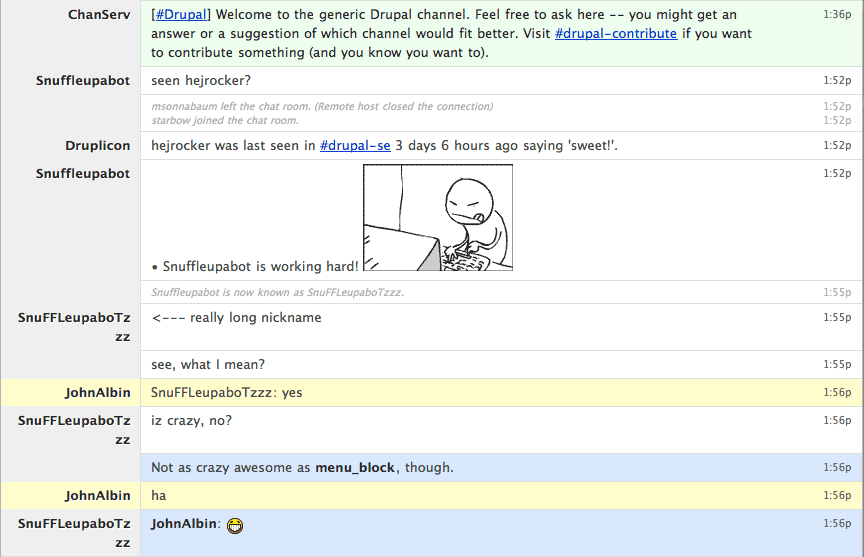
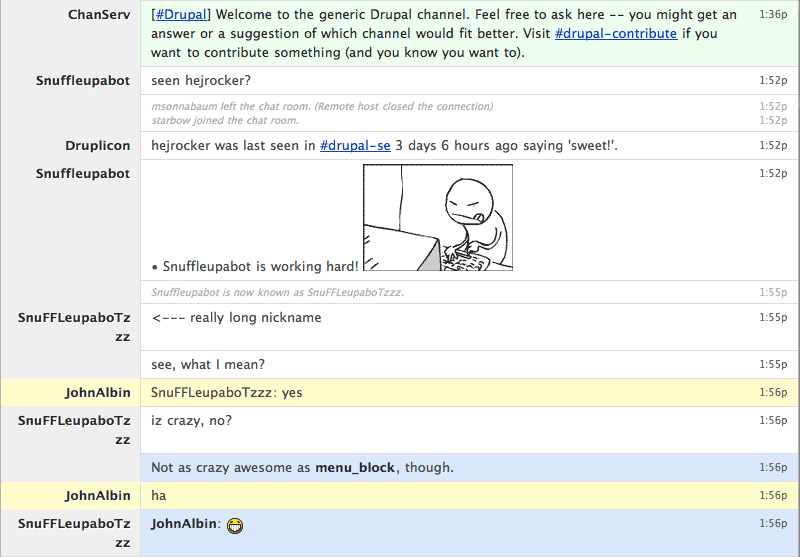
Lessen clutter in screenshot and set size to 800px wide.

diff --git a/README.md b/README.md
@@ -9,7 +9,7 @@ Four reasons to love “Succinct” for Colloquy
 3. De-emphasizes what you don’t.
 4. Customize what you hate.
 
-<img src="https://github.com/JohnAlbin/succinct-for-colloquy/raw/master/screenshot.png" width="628" alt="Screenshot" />
+<img src="https://github.com/JohnAlbin/succinct-for-colloquy/raw/master/screenshot.png" width="800" alt="Screenshot" />
 
 
 Installation
